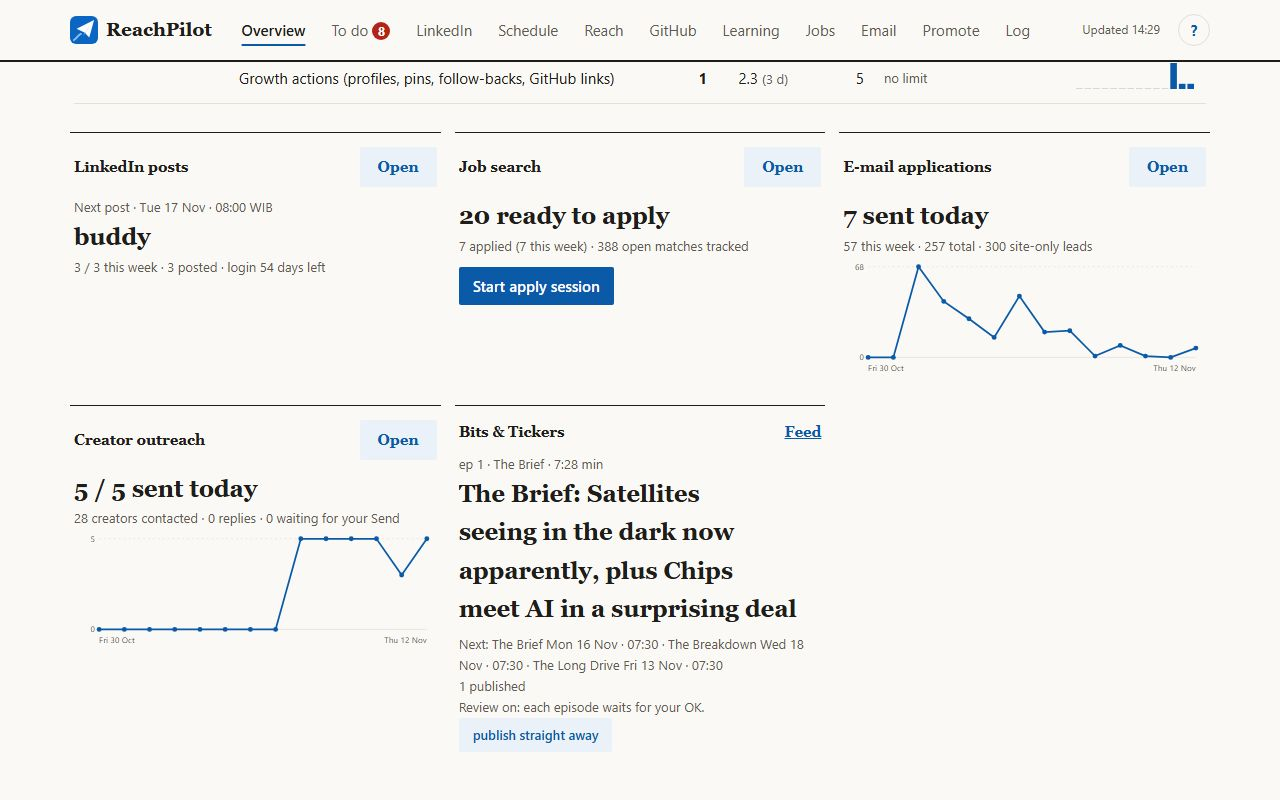
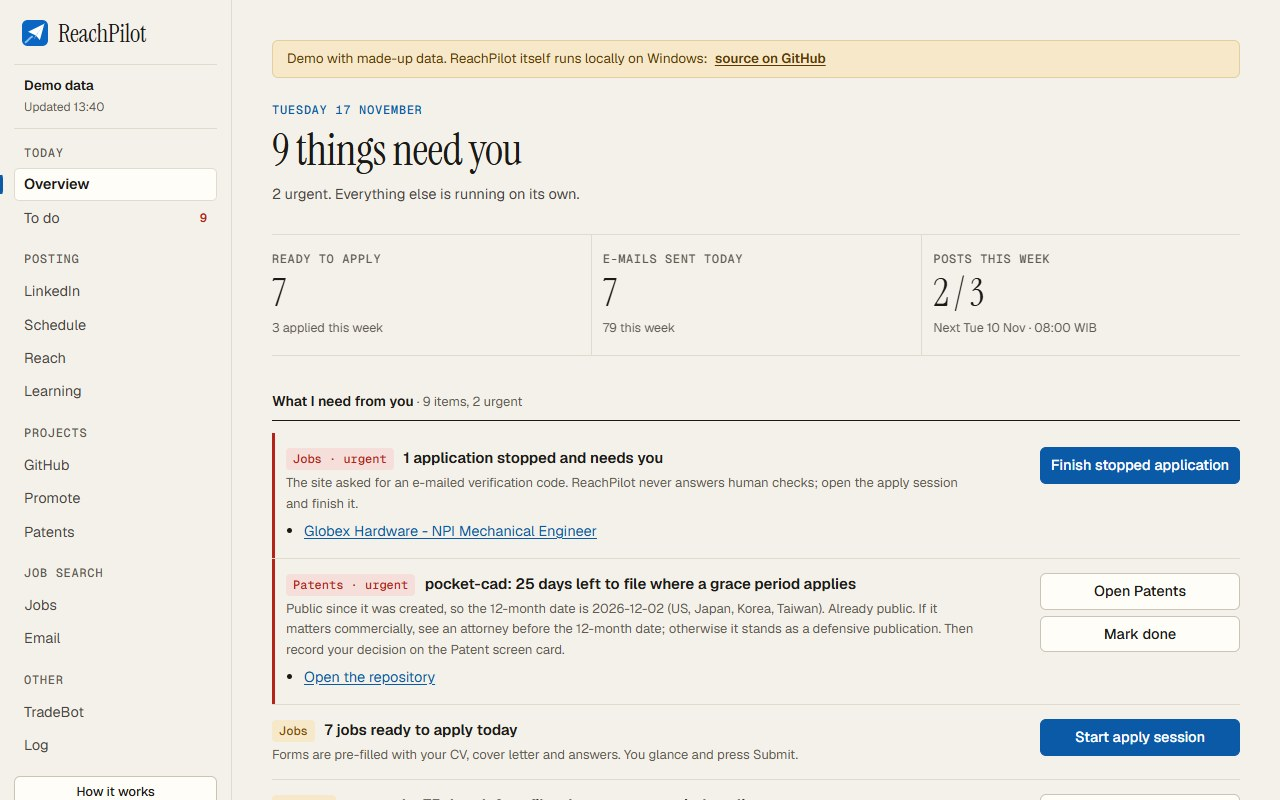
ReachPilot landing: screenshots of the new sidebar dashboard, facts refreshed

diff --git a/p/reachpilot/index.html b/p/reachpilot/index.html
@@ -678,9 +678,9 @@ python autopilot.py install"><svg viewBox="0 0 24 24" aria-hidden="true"><rect x
     <div class="kicker">Under the hood</div>
     <h2>How it's built.</h2>
     <div class="hood"><div class="hood-card">
-        <h3>Built with</h3><div class="sg"><span>Language</span><div class="chips"><b class=chip>Python</b><b class=chip>HTML/CSS</b></div></div><div class="sg"><span>Platform</span><div class="chips"><b class=chip>PWA</b></div></div><div class="sg"><span>Network</span><div class="chips"><b class=chip>requests</b></div></div><div class="sg"><span>Data</span><div class="chips"><b class=chip>openpyxl</b></div></div><div class="sg"><span>Media</span><div class="chips"><b class=chip>Pillow</b></div></div><div class="sg"><span>Tooling</span><div class="chips"><b class=chip>Playwright</b></div></div><p class="repo-line">42 files in the repo · 68 commits since Nov 2026 · last updated 16 Nov 2026.</p>
+        <h3>Built with</h3><div class="sg"><span>Language</span><div class="chips"><b class=chip>Python</b><b class=chip>HTML/CSS</b></div></div><div class="sg"><span>Platform</span><div class="chips"><b class=chip>PWA</b></div></div><div class="sg"><span>Network</span><div class="chips"><b class=chip>requests</b></div></div><div class="sg"><span>Data</span><div class="chips"><b class=chip>openpyxl</b><b class=chip>NumPy</b></div></div><div class="sg"><span>Media</span><div class="chips"><b class=chip>Pillow</b></div></div><div class="sg"><span>Tooling</span><div class="chips"><b class=chip>Playwright</b></div></div><p class="repo-line">53 files in the repo · 90 commits since Nov 2026 · last updated 17 Nov 2026.</p>
         <a class="go" href="https://github.com/juw12/reachpilot">Browse the code <svg viewBox="0 0 24 24" aria-hidden="true"><path d="M5 12h13M13 6l6 6-6 6" fill="none" stroke="currentColor" stroke-width="2.2" stroke-linecap="round" stroke-linejoin="round"/></svg></a>
-      </div><div class="hood-card"><h3>Recently shipped</h3><ol class="log"><li><time datetime="2026-11-16">16 Nov 2026</time><p>Launch card: an automation&#x27;s detail wraps instead of running off the card</p></li><li><time datetime="2026-11-16">16 Nov 2026</time><p>Launch automations: the judge&#x27;s score names its commit and how many judges answered</p></li><li><time datetime="2026-11-16">16 Nov 2026</time><p>Launch automations: one run at a time, one follow-up ever</p></li><li><time datetime="2026-11-16">16 Nov 2026</time><p>Patent desk: daily follow-up of every patent candidate (readiness out of 100 on eight checks, provisional draft package, filing date and 12-month…</p></li><li><time datetime="2026-11-16">16 Nov 2026</time><p>Launch automations: watch for the reply, invite after approval, keep the proposal checked</p></li></ol><a class="go" href="https://github.com/juw12/reachpilot/commits/main">Full history on GitHub <svg viewBox="0 0 24 24" aria-hidden="true"><path d="M5 12h13M13 6l6 6-6 6" fill="none" stroke="currentColor" stroke-width="2.2" stroke-linecap="round" stroke-linejoin="round"/></svg></a></div></div>
+      </div><div class="hood-card"><h3>Recently shipped</h3><ol class="log"><li><time datetime="2026-11-17">17 Nov 2026</time><p>Updater: installs the packages a new version needs (missing only); public demo page shows the product film</p></li><li><time datetime="2026-11-17">17 Nov 2026</time><p>Launch automations: a score is compared with the run before, not with the best ever</p></li><li><time datetime="2026-11-16">16 Nov 2026</time><p>Launch automations: the weekly judge result on the card says when the next run is due, and a week that gave no score is reported</p></li><li><time datetime="2026-11-16">16 Nov 2026</time><p>Patent desk: page count for a longer specification on the SB/16 form (#27)</p></li><li><time datetime="2026-11-16">16 Nov 2026</time><p>Product film: the demo in use, no voice, original music (soundtrack.py)</p></li></ol><a class="go" href="https://github.com/juw12/reachpilot/commits/main">Full history on GitHub <svg viewBox="0 0 24 24" aria-hidden="true"><path d="M5 12h13M13 6l6 6-6 6" fill="none" stroke="currentColor" stroke-width="2.2" stroke-linecap="round" stroke-linejoin="round"/></svg></a></div></div>
   </section>
   <section class="block alt wrap reveal" id="faq">
     <div class="kicker">Questions</div>
